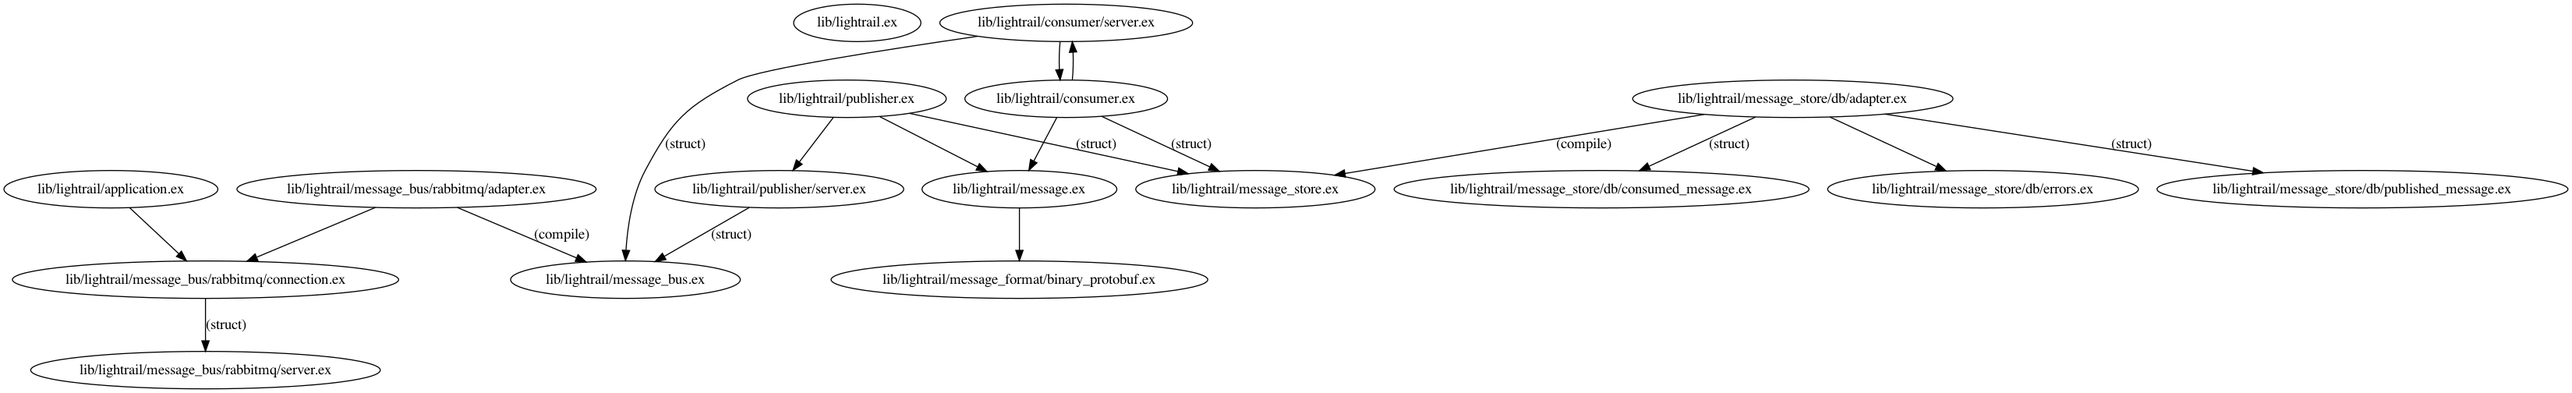
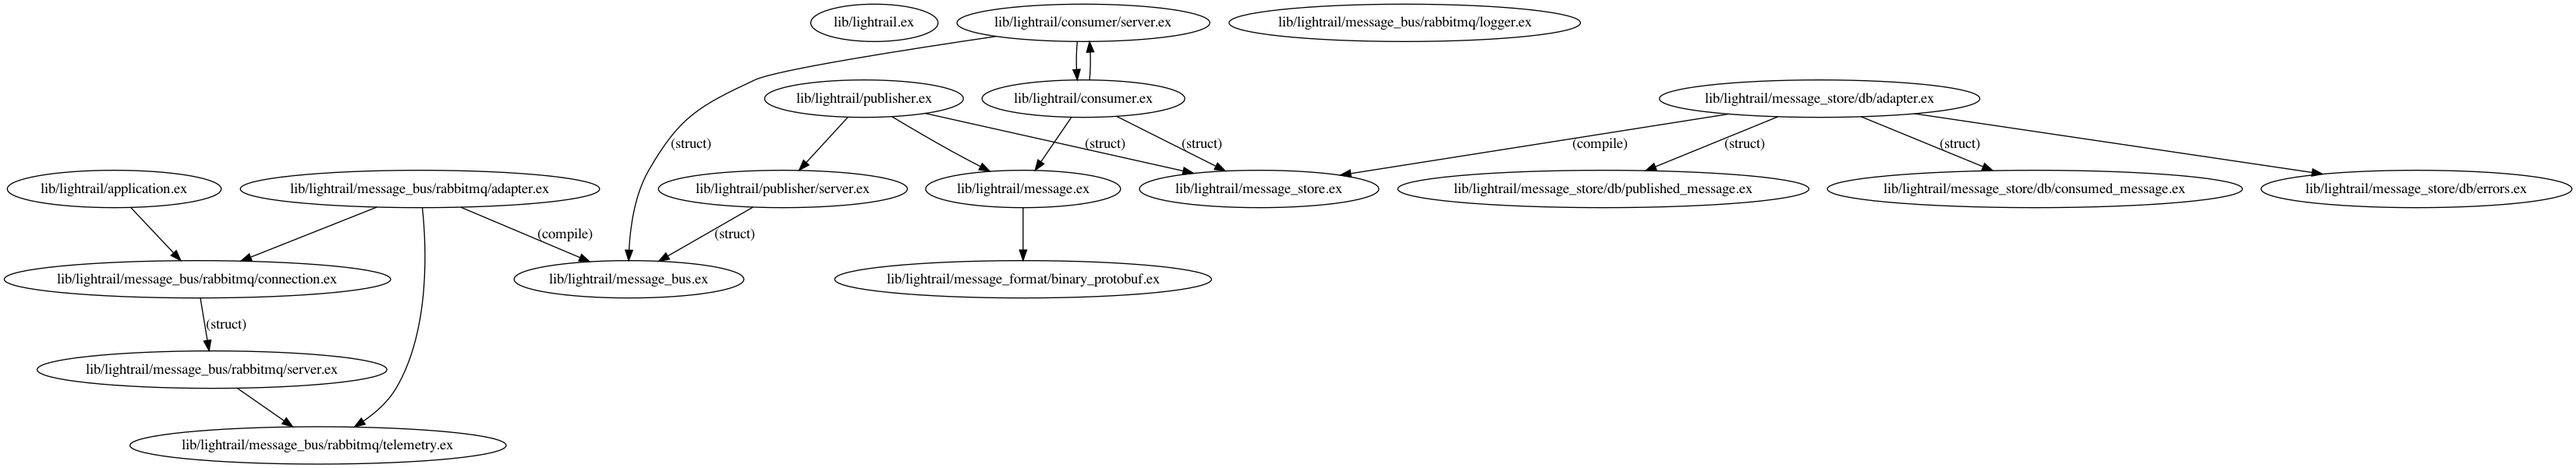
Setup Telemetry for RabbitMQ
Also provide optional default loggers for Telemetry data.

diff --git a/README.md b/README.md
@@ -85,11 +85,9 @@ This is a non-exhaustive list of things in no particular order that I'd like to 
 - [ ] row locking for consumed messages to prevent concurrent processing
 - [ ] remove specs from non-public API modules
 - [ ] mix task for generating migrations
-- [ ] setup telemetry for MessageBus.RabbitMQ
-- [ ] command messages (both publishing & consuming); how should they work? when should they be used?
-- [ ] RPC support
 - [ ] setup telemetry for publisher genserver
 - [ ] setup telemetry for consumer genserver
+- [x] setup telemetry for MessageBus.RabbitMQ
 - [x] replace all hard-coded rabbitmq connection strings in tests
 - [x] fix TODOs in Publisher
 - [x] how should protobuf encoding work?
@@ -108,3 +106,5 @@ This is a non-exhaustive list of things in no particular order that I'd like to 
 - [x] figure out how auto-generated docs work (also saw references in some places about executable docs)
 - [x] look into using `ex_rabbit_pool` for connections
 - [x] how should supervisors work? develop consumer strategy
+- [~] command messages (both publishing & consuming); how should they work? when should they be used?
+- [~] RPC support
